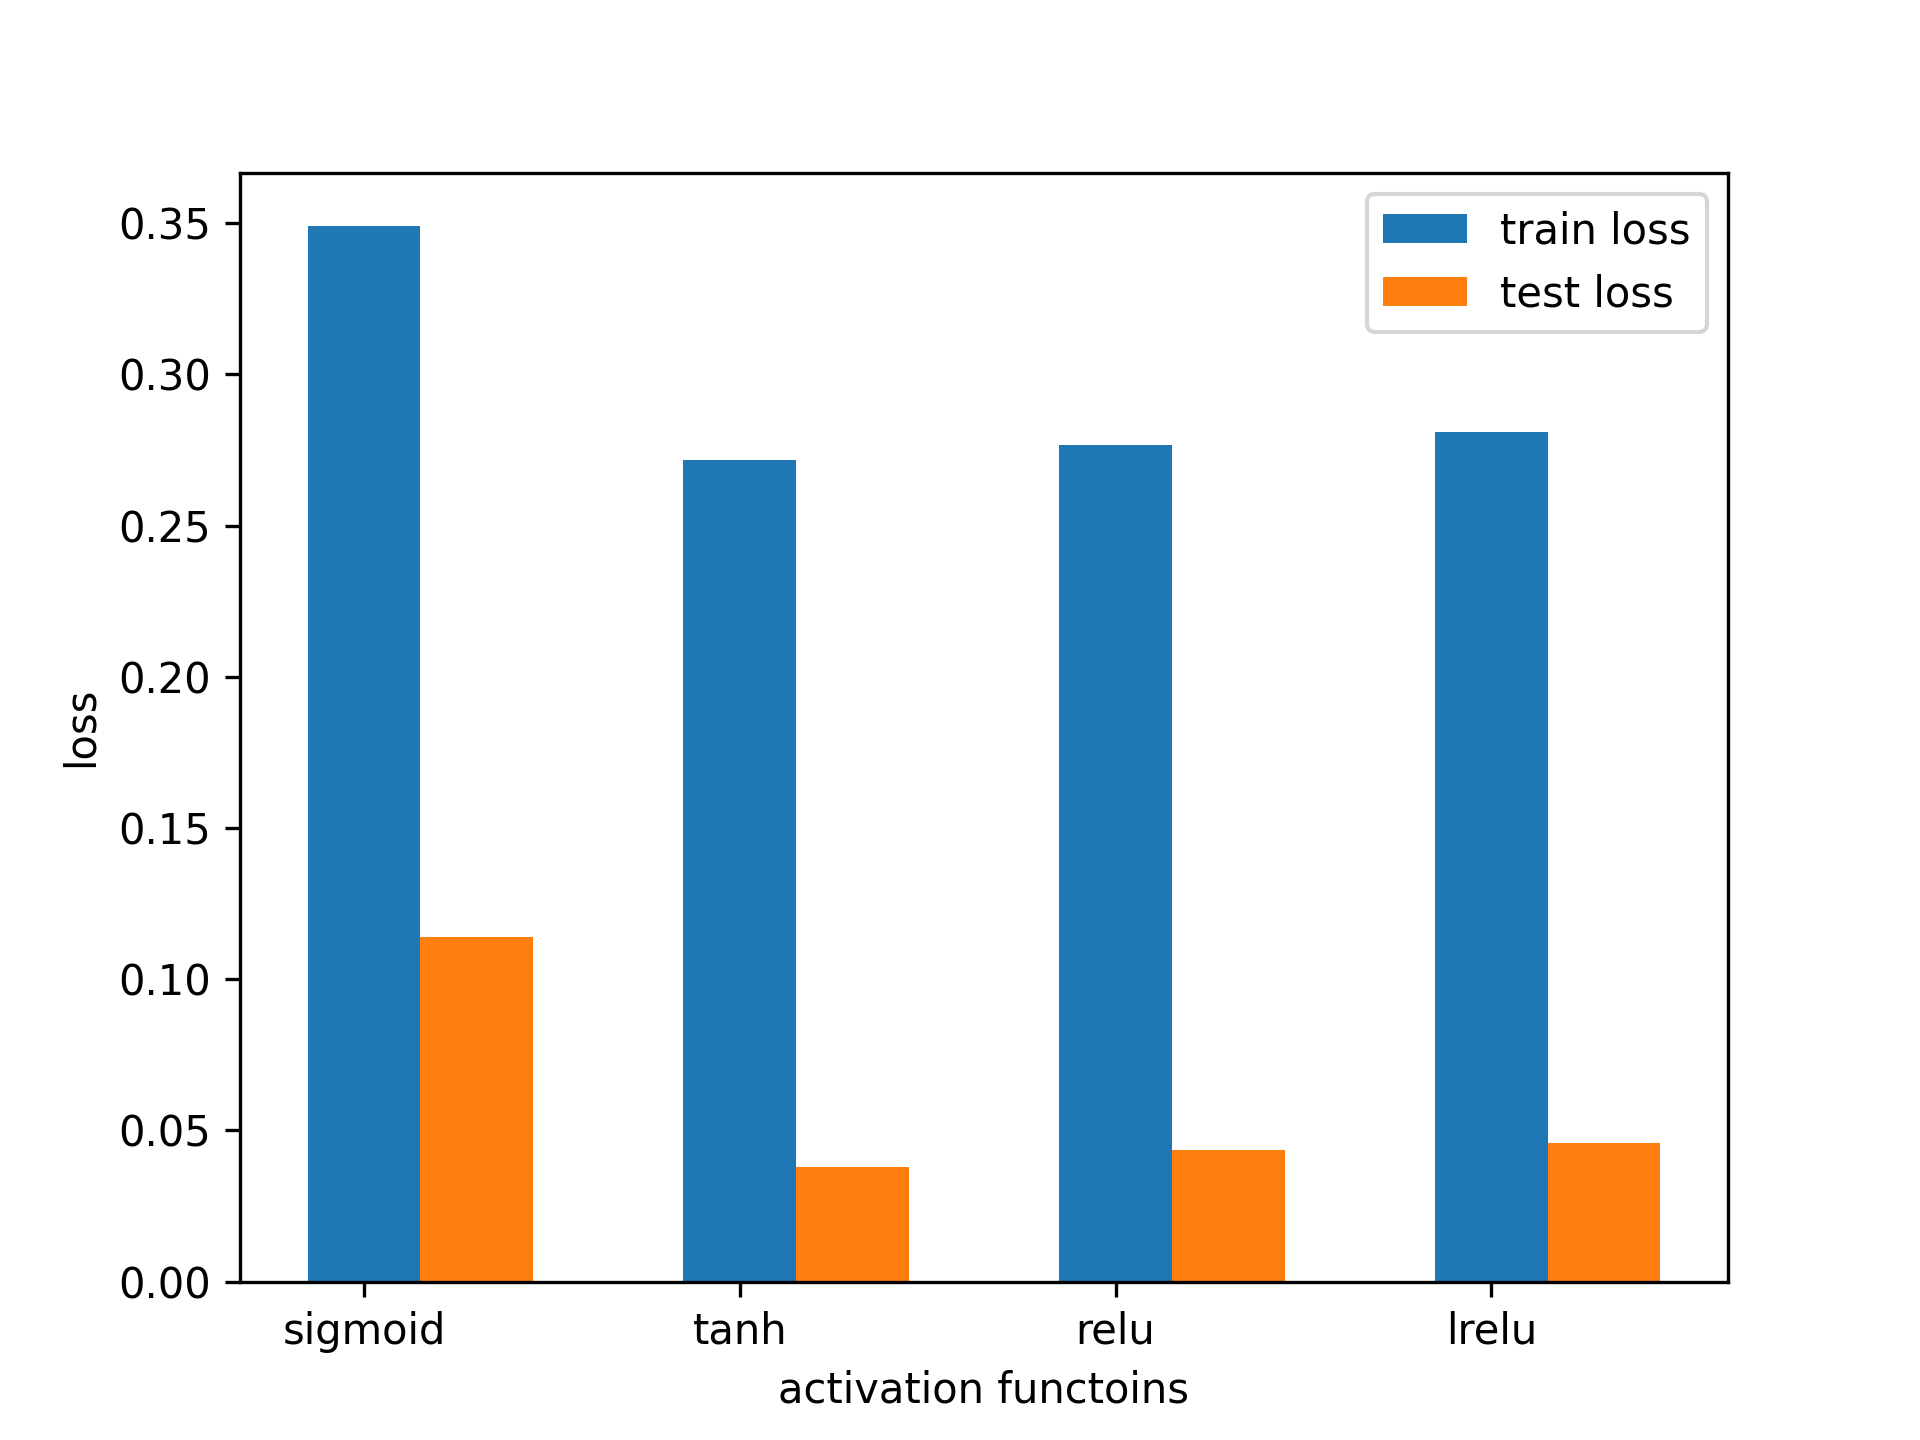
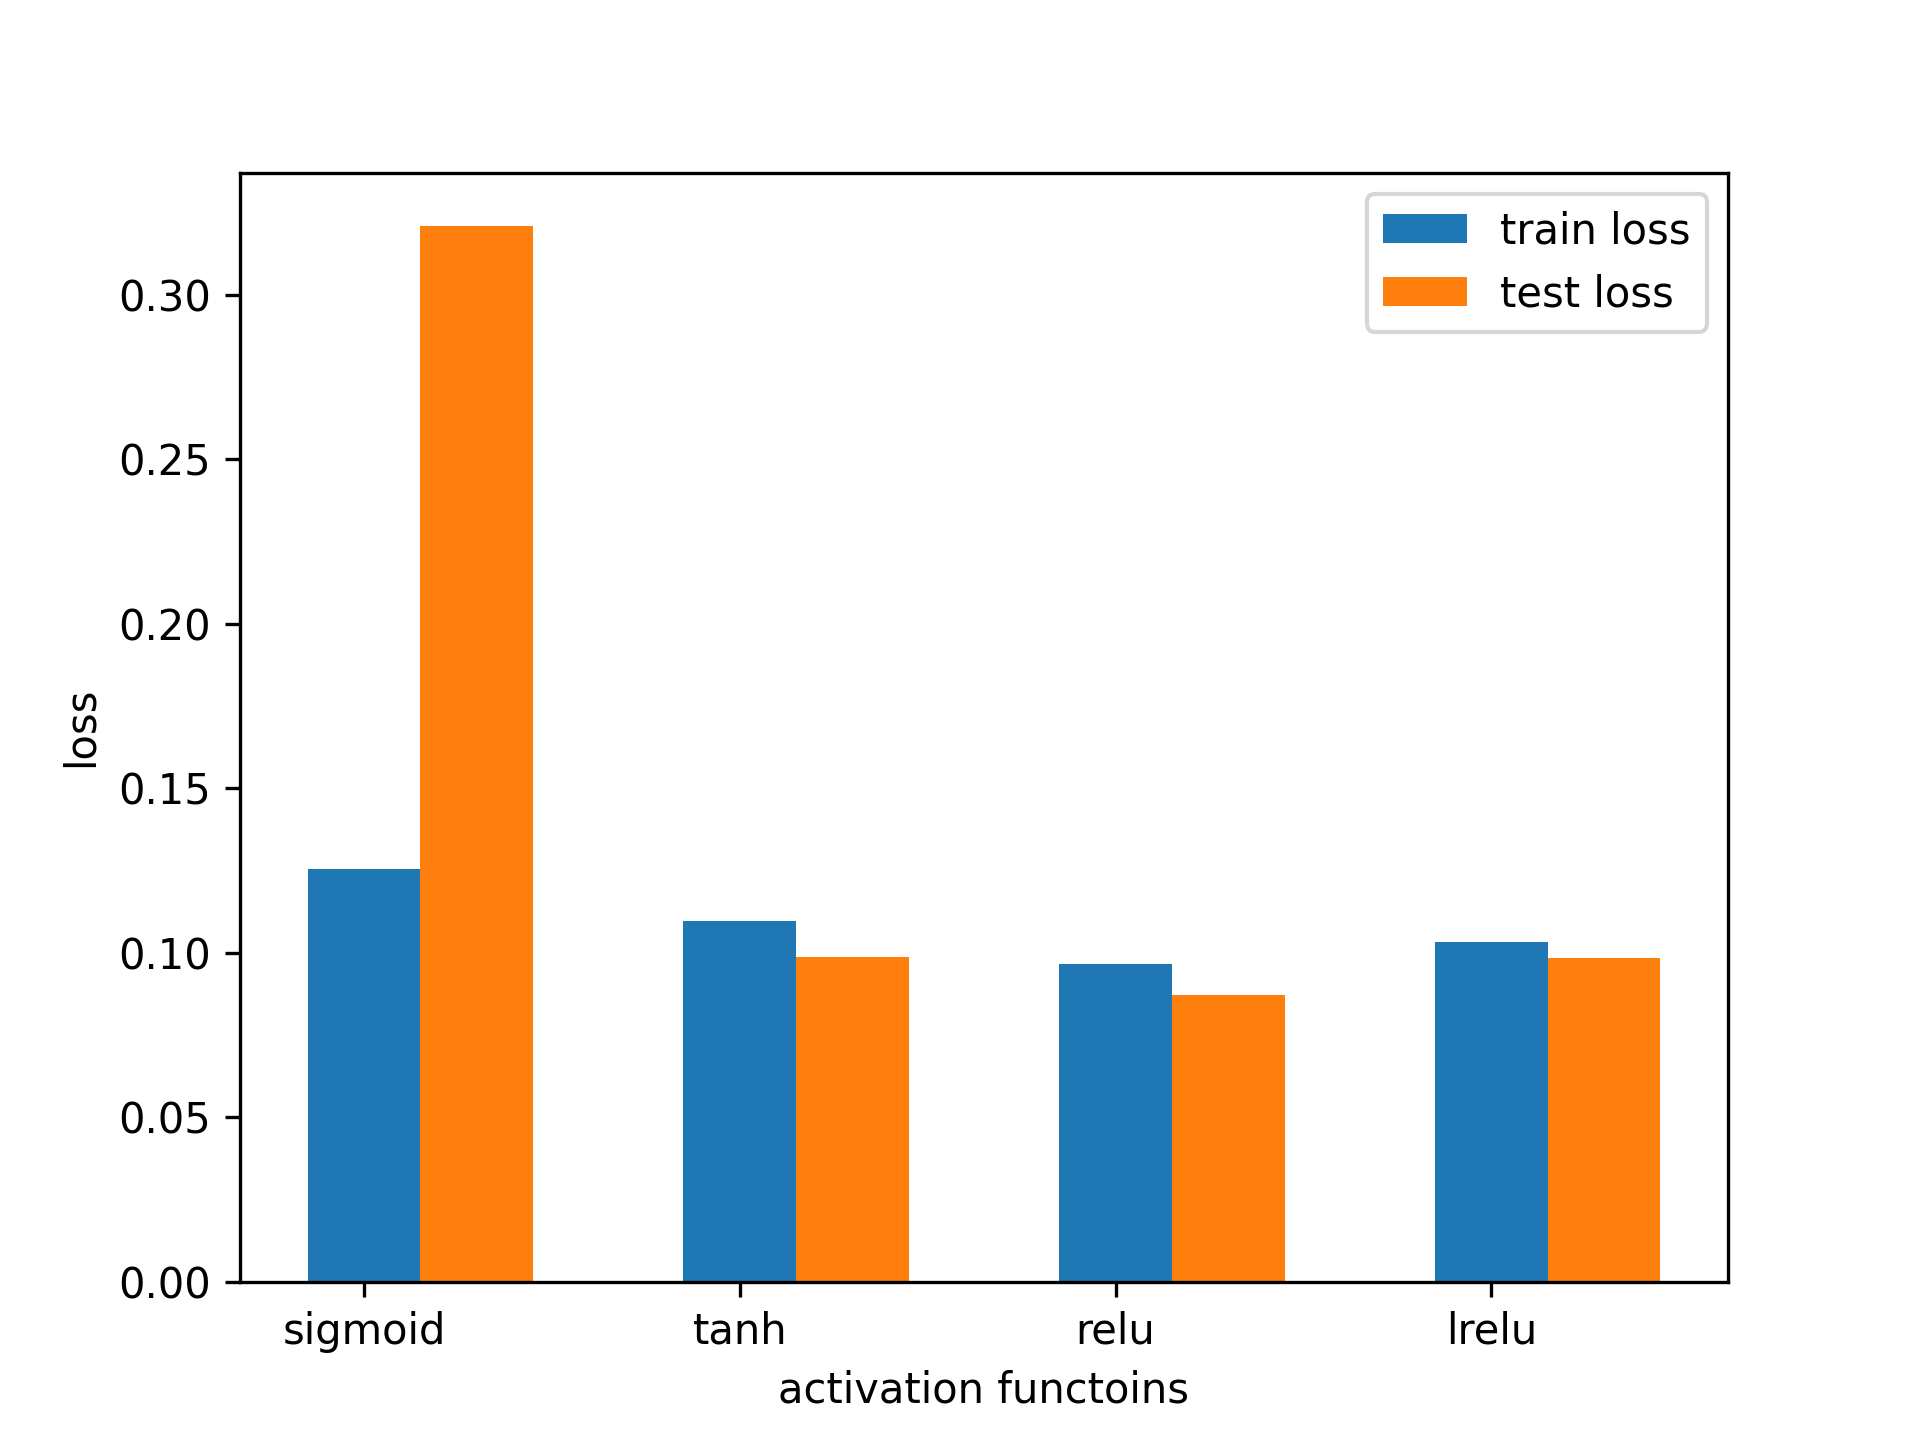
Add functions to generate and save figures 5 and 6; update result visualization logic

diff --git a/generate_results.py b/generate_results.py
@@ -11,49 +11,40 @@ from f_load_dataset import load_dataset
 # mini_batch_size = 25
 
 # activation functions vs errors
-train_x, train_t, val_x, val_t, test_x, test_t = load_dataset()
+def generate_fig6():
+    train_x, train_t, val_x, val_t, test_x, test_t = load_dataset()
 
-# Parameters
-learning_rate = 1e-3
-epochs = 100
-mini_batch_size = 25
+    # Parameters
+    learning_rate = 1e-3
+    epochs = 100
+    mini_batch_size = 25
 
-train_loss = []
-test_loss = []
-width = 0.3
-act_func = ['sigmoid', 'tanh', 'relu', 'lrelu']
+    train_loss = []
+    test_loss = []
+    width = 0.3
+    act_func = ['sigmoid', 'tanh', 'relu', 'lrelu']
 
-for func in act_func:
-    layer_dim = [1, 100, 100, 100, 100, 100, 1]
-    activations = [None, func, func, func, func, func, 'identity']
-    nn = NeuralNetwork(layer_dim, activations, learning_rate, epochs, mini_batch_size)
-    train_los, val_los = nn.train(train_x, train_t, val_x, val_t)
+    for func in act_func:
+        layer_dim = [1, 100, 100, 100, 100, 100, 1]
+        activations = [None, func, func, func, func, func, 'identity']
+        nn = NeuralNetwork(layer_dim, activations, learning_rate, epochs, mini_batch_size)
+        nn.train(train_x, train_t, val_x, val_t)
 
-    print('1-train loss:', train_los)
-    print('1-validation loss:', val_los)
+        a, _ = nn.test(train_x, train_t)
+        train_loss.append(a)
 
-    a,_ = nn.test(train_x, train_t)
-    train_loss.append(a)
+        b, _ = nn.test(test_x, test_t)
+        test_loss.append(b)
 
-    b, _ = nn.test(test_x, test_t)
-    test_loss.append(b)
-
-    print('2-train loss:', a)
-    print('2-test loss:', b)
-    # input("Press Enter to continue...")
-
-print('train loss:', train_loss)
-print('test loss:', test_loss)
-
-fig = plt.gcf()
-plt.xticks(range(len(act_func)), act_func)
-plt.xlabel('activation functoins')
-plt.ylabel('loss')
-plt.bar(np.arange(len(train_loss)),train_loss, width=width, label='train loss') 
-plt.bar(np.arange(len(test_loss))+width,test_loss, width=width, label='test loss') 
-plt.legend()
-plt.show()
-fig.savefig('Figure_5', dpi=300)
+    fig = plt.gcf()
+    plt.xticks(range(len(act_func)), act_func)
+    plt.xlabel('activation functoins')
+    plt.ylabel('loss')
+    plt.bar(np.arange(len(train_loss)),train_loss, width=width, label='train loss') 
+    plt.bar(np.arange(len(test_loss))+width,test_loss, width=width, label='test loss') 
+    plt.legend()
+    plt.show()
+    fig.savefig('Figure_6', dpi=300)
 
 
 ########################################################################################
@@ -62,71 +53,63 @@ fig.savefig('Figure_5', dpi=300)
 # epochs = 100
 # num of neurons = 50
 # mini_batch_size = 10
-test_error_sigmoid = []
-test_error_tanh = []
-test_error_relu = []
-test_error_lrelu = []
-# test_error_sigmoid = [0.5, 0.4, 0.35, 0.3, 0.25]
-# test_error_tanh = [0.6, 0.5, 0.45, 0.4, 0.35]
-# test_error_relu = [0.7, 0.6, 0.55, 0.5, 0.45]
-# test_error_lrelu = [0.8, 0.7, 0.65, 0.6, 0.55]
-act_func = ['1HL', '2HL', '3HL', '5HL', '10HL']
 
-# Load dataset
-train_x, train_t, val_x, val_t, test_x, test_t = load_dataset()
+def generate_fig5():
+    test_error_sigmoid = [0.05872, 0.06902, 0.09763, 0.10762, 0.10923]
+    test_error_tanh = [0.056213, 0.044345, 0.03815, 0.04221, 0.02421]
+    test_error_relu = [0.05472, 0.04523, 0.03521, 0.020109, 0.021035]
+    test_error_lrelu = [0.054234, 0.04698, 0.03356, 0.031901, 0.02123] 
+    act_func = ['1HL', '2HL', '3HL', '5HL', '10HL']
 
-hidden_layer_counts = [1, 2, 3, 5, 10]
+    # Load dataset
+    train_x, train_t, val_x, val_t, test_x, test_t = load_dataset()
 
-# Parameters
-learning_rate = 1e-3
-epochs = 100
-num_neurons_per_hidden = 50
-mini_batch_size = 10
+    hidden_layer_counts = [1, 2, 3, 5, 10]
 
-activation_funcs = ['sigmoid', 'tanh', 'relu', 'lrelu']
+    # Parameters
+    learning_rate = 1e-3
+    epochs = 100
+    num_neurons_per_hidden = 50
+    mini_batch_size = 10
 
-for hl in hidden_layer_counts:
-    for func in activation_funcs:
-        
-        layer_dim = [1] + [num_neurons_per_hidden] * hl + [1]
+    activation_funcs = ['sigmoid', 'tanh', 'relu', 'lrelu']
 
-        activations = [None] + [func] * hl + ['identity']
-        nn = NeuralNetwork(layer_dim, activations, learning_rate, epochs, mini_batch_size)
-        
-        nn.train(train_x, train_t, val_x, val_t)
-        
-        error, _ = nn.test(test_x, test_t)
-        if func == 'sigmoid':
-            test_error_sigmoid.append(error)
-        elif func == 'tanh':
-            test_error_tanh.append(error)
-        elif func == 'relu':
-            test_error_relu.append(error)
-        elif func == 'lrelu':
-            test_error_lrelu.append(error)
+    for hl in hidden_layer_counts:
+        for func in activation_funcs:
 
-        print(f'Activation: {func}, Hidden Layers: {hl}, Test Loss: {error}')
+            layer_dim = [1] + [num_neurons_per_hidden] * hl + [1]
 
+            activations = [None] + [func] * hl + ['identity']
+            nn = NeuralNetwork(layer_dim, activations, learning_rate, epochs, mini_batch_size)
 
+            nn.train(train_x, train_t, val_x, val_t)
 
-fig = plt.gcf()
-plt.xticks(range(len(act_func)), act_func)
-plt.xlabel('hidden layers')
-plt.ylabel('loss')
-plt.plot(test_error_sigmoid, color='darkorange',linestyle='dashed',linewidth=2, marker='o', markerfacecolor='darkorange', markersize=8, label='sigmoid') 
-plt.plot(test_error_tanh, color='red',linestyle='dashed',linewidth =2, marker='o', markerfacecolor='red', markersize=8, label='tanh') 
-plt.plot(test_error_relu, color='purple',linestyle='dashed',linewidth =2, marker='o', markerfacecolor='purple', markersize=8, label='relu') 
-plt.plot(test_error_lrelu, color='blue',linestyle='dashed',linewidth =2, marker='o', markerfacecolor='blue', markersize=8, label='lrelu') 
-plt.legend()
-plt.show()
-fig.savefig('Figure_6', dpi=300)
+            error, _ = nn.test(test_x, test_t)
+            if func == 'sigmoid':
+                test_error_sigmoid.append(error)
+            elif func == 'tanh':
+                test_error_tanh.append(error)
+            elif func == 'relu':
+                test_error_relu.append(error)
+            elif func == 'lrelu':
+                test_error_lrelu.append(error)
+
+            print(f'Activation: {func}, Hidden Layers: {hl}, Test Loss: {error}')
+
+    fig = plt.gcf()
+    plt.xticks(range(len(act_func)), act_func)
+    plt.xlabel('hidden layers')
+    plt.ylabel('loss')
+    plt.plot(test_error_sigmoid, color='darkorange',linestyle='dashed',linewidth=2, marker='o', markerfacecolor='darkorange', markersize=8, label='sigmoid') 
+    plt.plot(test_error_tanh, color='red',linestyle='dashed',linewidth =2, marker='o', markerfacecolor='red', markersize=8, label='tanh') 
+    plt.plot(test_error_relu, color='purple',linestyle='dashed',linewidth =2, marker='o', markerfacecolor='purple', markersize=8, label='relu') 
+    plt.plot(test_error_lrelu, color='blue',linestyle='dashed',linewidth =2, marker='o', markerfacecolor='blue', markersize=8, label='lrelu') 
+    plt.legend()
+    plt.show()
+    fig.savefig('Figure_5', dpi=300)
 
 ########################################################################################
 
-
-
-
-
-
-
-
+if __name__ == '__main__':
+    generate_fig5()
+    generate_fig6()
